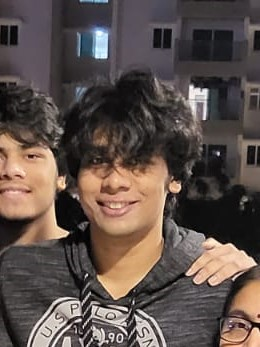
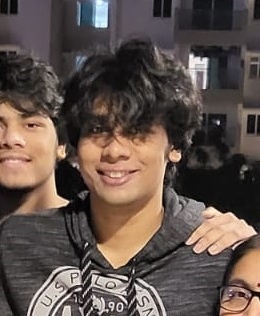
Fixed photograph

diff --git a/src/views/TeamPage/TeamPage.js b/src/views/TeamPage/TeamPage.js
@@ -20,7 +20,7 @@ import PrachiMarketing from "../../Assets/image/teamLeads/Prachi.jpg";
 import LavanyaCotent from "../../Assets/image/teamLeads/Lavanya.jpg";
 import AryamanPr from "../../Assets/image/teamLeads/Aryaman.jpg";
 // import SabavatWebDev from "../../Assets/image/teamLeads/Sabavat.jpeg"
-import SabavatWebDev2 from "../../Assets/image/teamLeads/Sabavat2.jpeg";
+import SabavatWebDev2 from "../../Assets/image/teamLeads/Sabavat2.png";
 
 import TeamMember from "../../components/TeamComponents/TeamMember";
 import DropDown from "../../components/TeamComponents/DropDownGui/DropDown";
